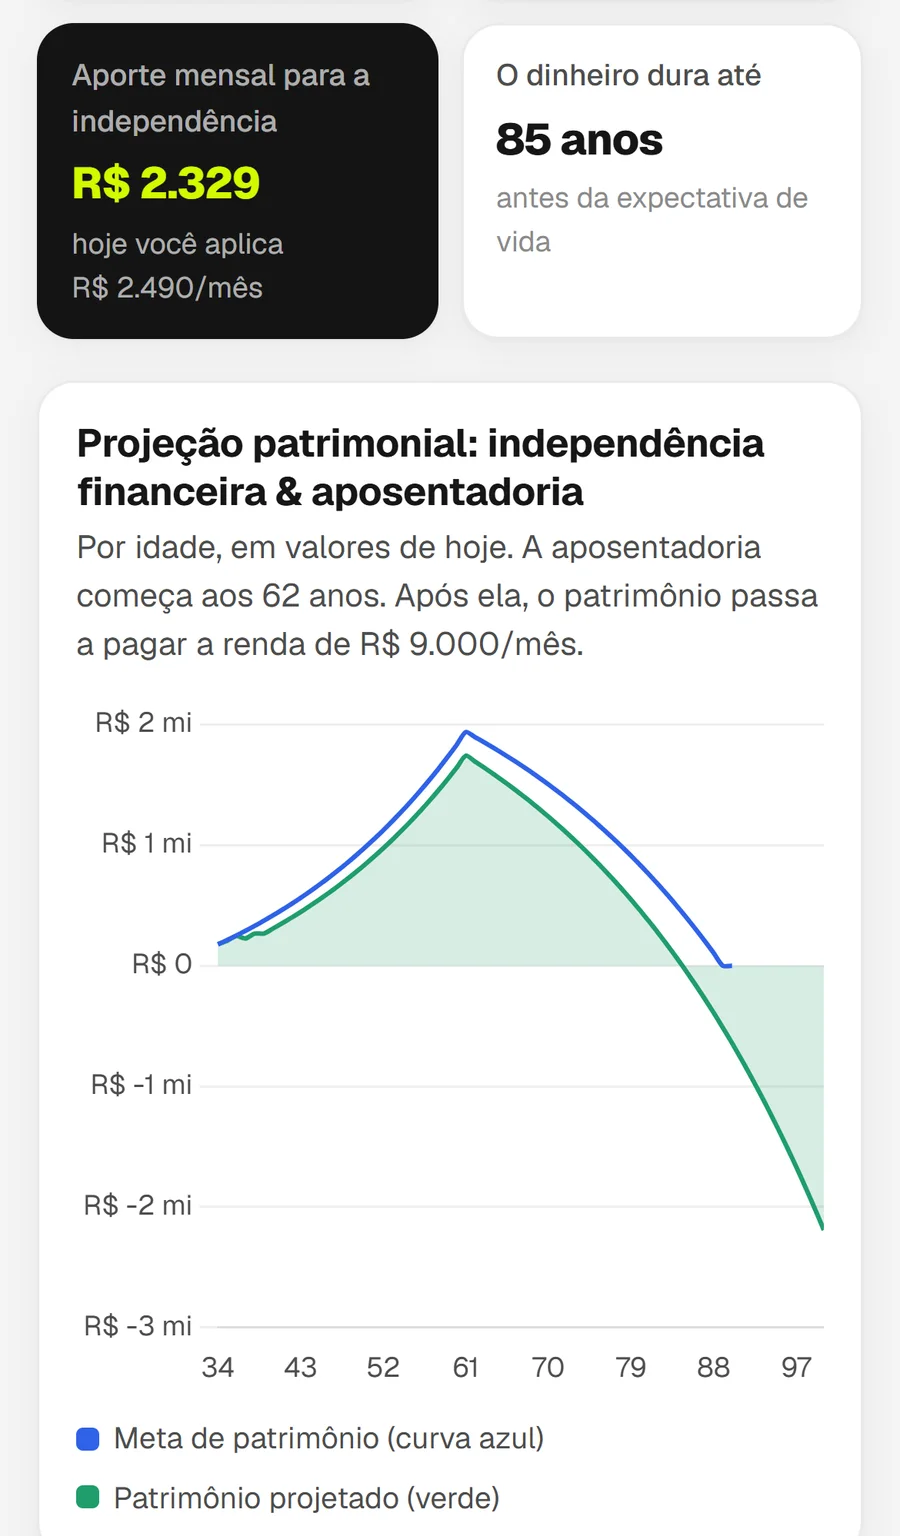
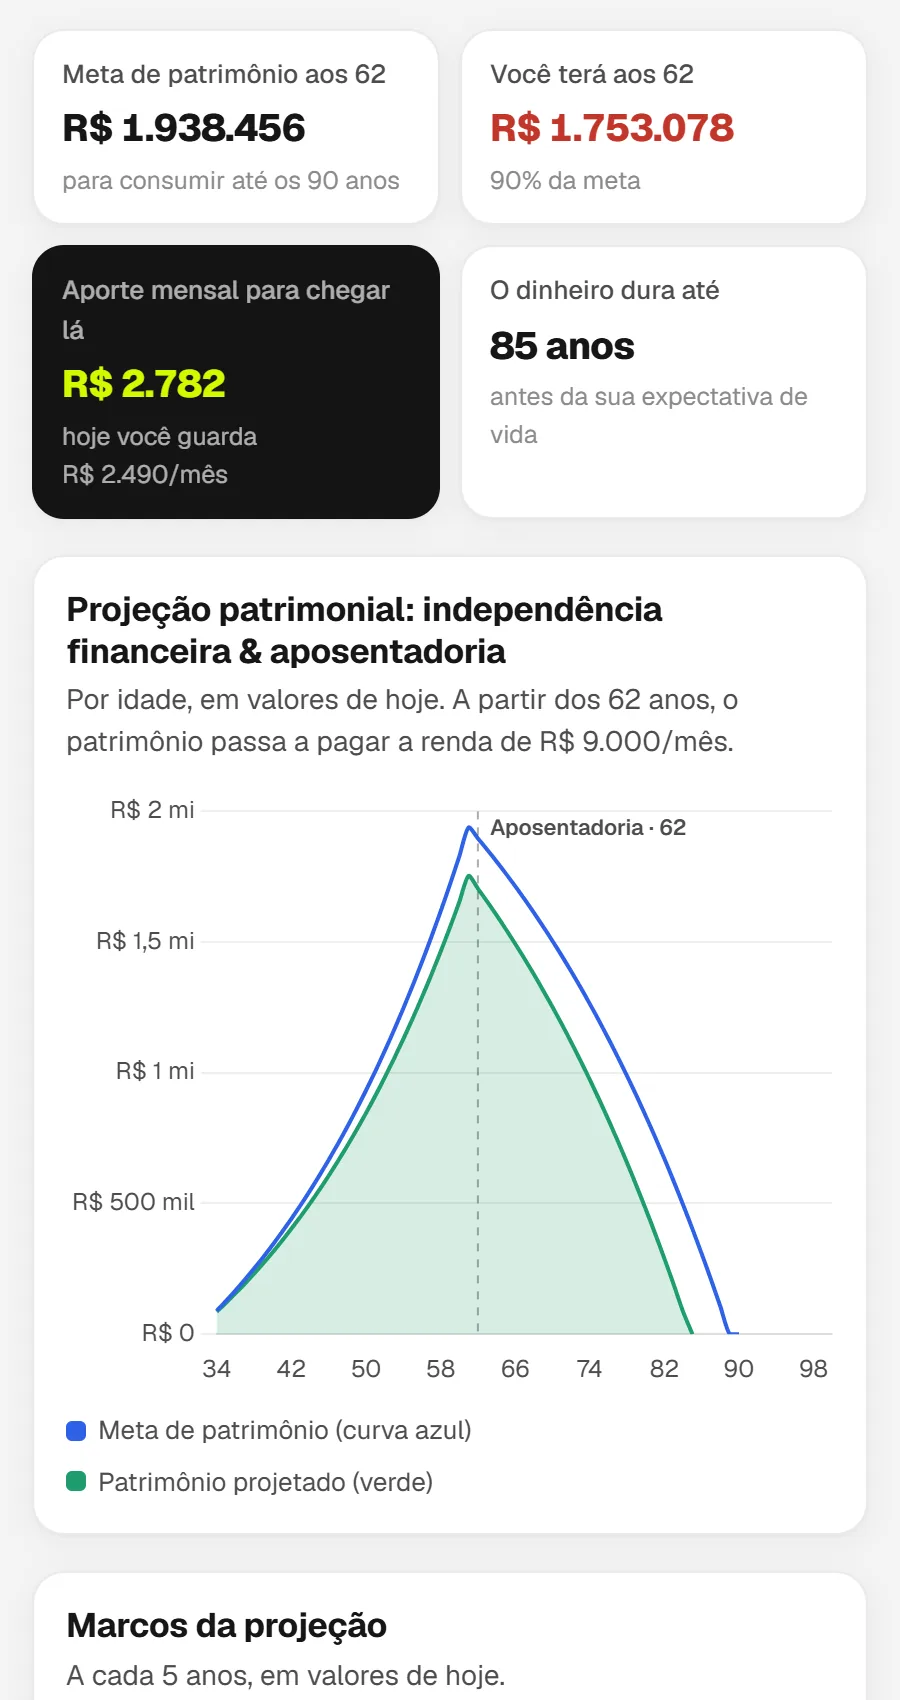
site: Mapa app - print novo da Análise (patrimônio não fica negativo)

diff --git a/mapa-app/index.html b/mapa-app/index.html
@@ -256,7 +256,7 @@ footer p+p{margin-top:8px}
   <div class="wrap wide">
     <div class="browser rv" data-zoom="img/app-analise-tela.webp">
       <div class="bar"><i></i><i></i><i></i><span>Mapa da Organização Financeira · Análise</span></div>
-      <img src="img/app-analise-tela.webp" alt="Tela de Análise do aplicativo com metas, aporte necessário e gráfico de projeção patrimonial" width="1800" height="1137">
+      <img src="img/app-analise-tela.webp" alt="Tela de Análise do aplicativo com metas, aporte necessário e gráfico de projeção patrimonial" width="1800" height="1491">
     </div>
     <p class="cap"><span><b>Tela Análise.</b> Azul: a meta de patrimônio. Verde: o que você está acumulando. Neste exemplo, o app mostra que o dinheiro acabaria aos 85 anos, antes da expectativa de vida.</span><span>toque pra ampliar</span></p>
   </div>
@@ -336,7 +336,7 @@ footer p+p{margin-top:8px}
     <p class="sub">O Mapa abre no navegador. Lançou um gasto no celular, ele aparece no computador. Seus dados ficam guardados na sua conta, não num arquivo.</p>
     <div class="phones">
       <div class="phone rv" data-zoom="img/mobile-orcamento.webp"><img src="img/mobile-orcamento.webp" alt="Tela de Orçamento no celular" width="900" height="1823" loading="lazy"></div>
-      <div class="phone rv" data-zoom="img/mobile-analise.webp"><img src="img/mobile-analise.webp" alt="Tela de Análise no celular" width="900" height="1536" loading="lazy"></div>
+      <div class="phone rv" data-zoom="img/mobile-analise.webp"><img src="img/mobile-analise.webp" alt="Tela de Análise no celular" width="900" height="1700" loading="lazy"></div>
     </div>
     <div class="feats">
       <div><b>Salva sozinho</b>Cada número que você digita é salvo na hora.</div>
